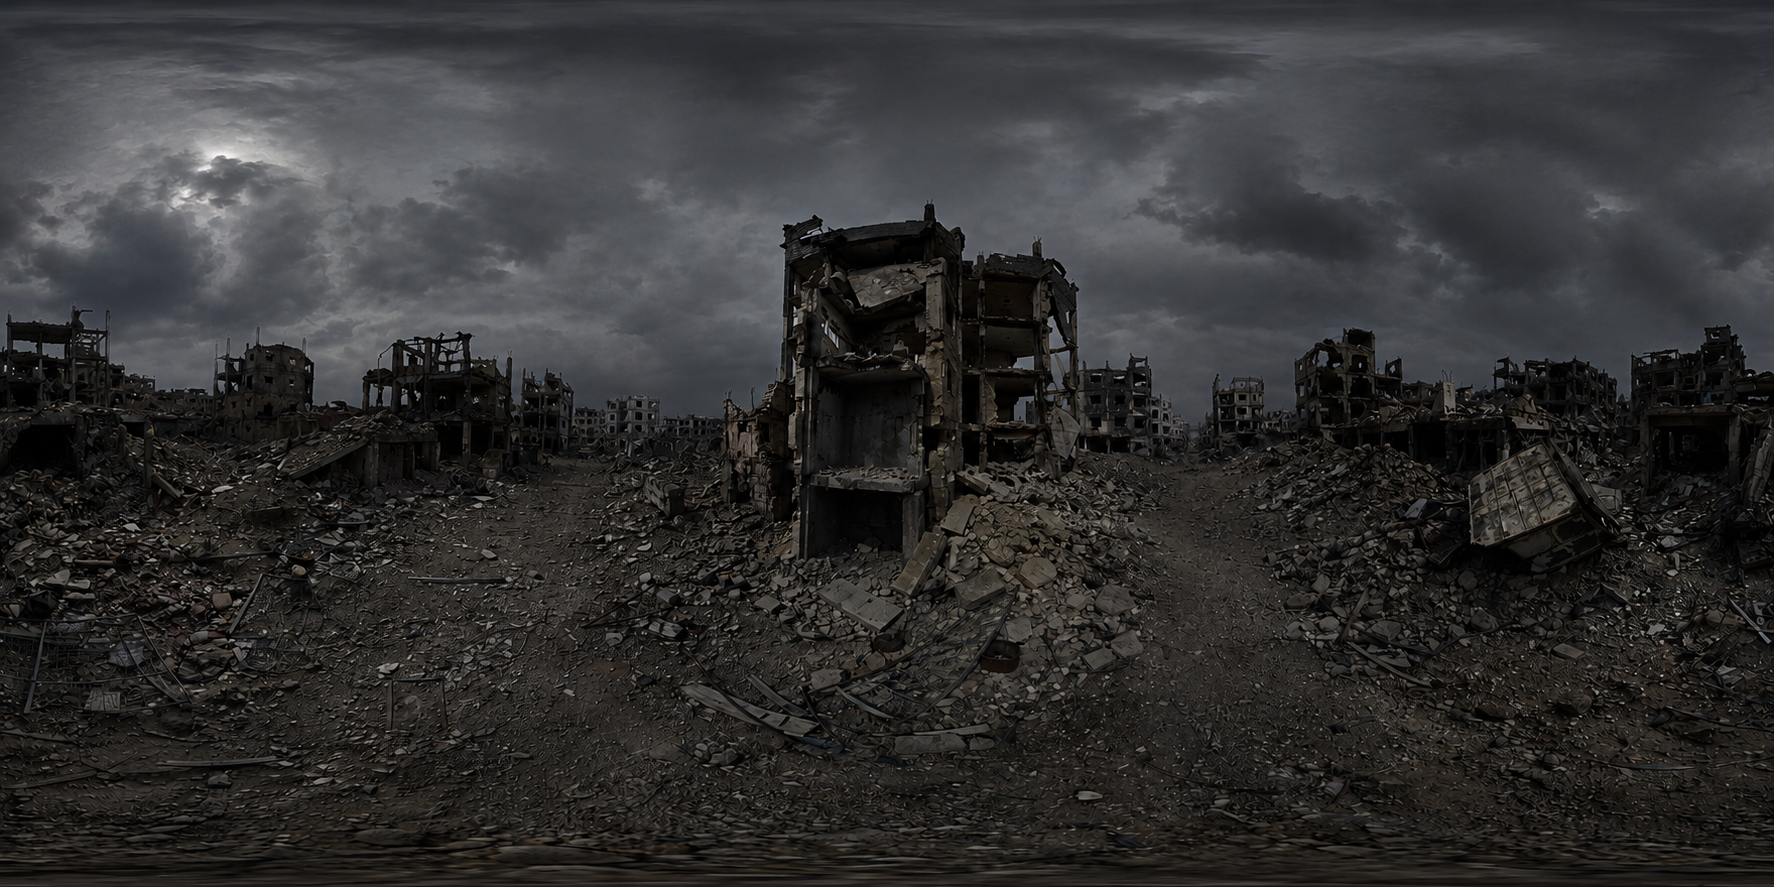
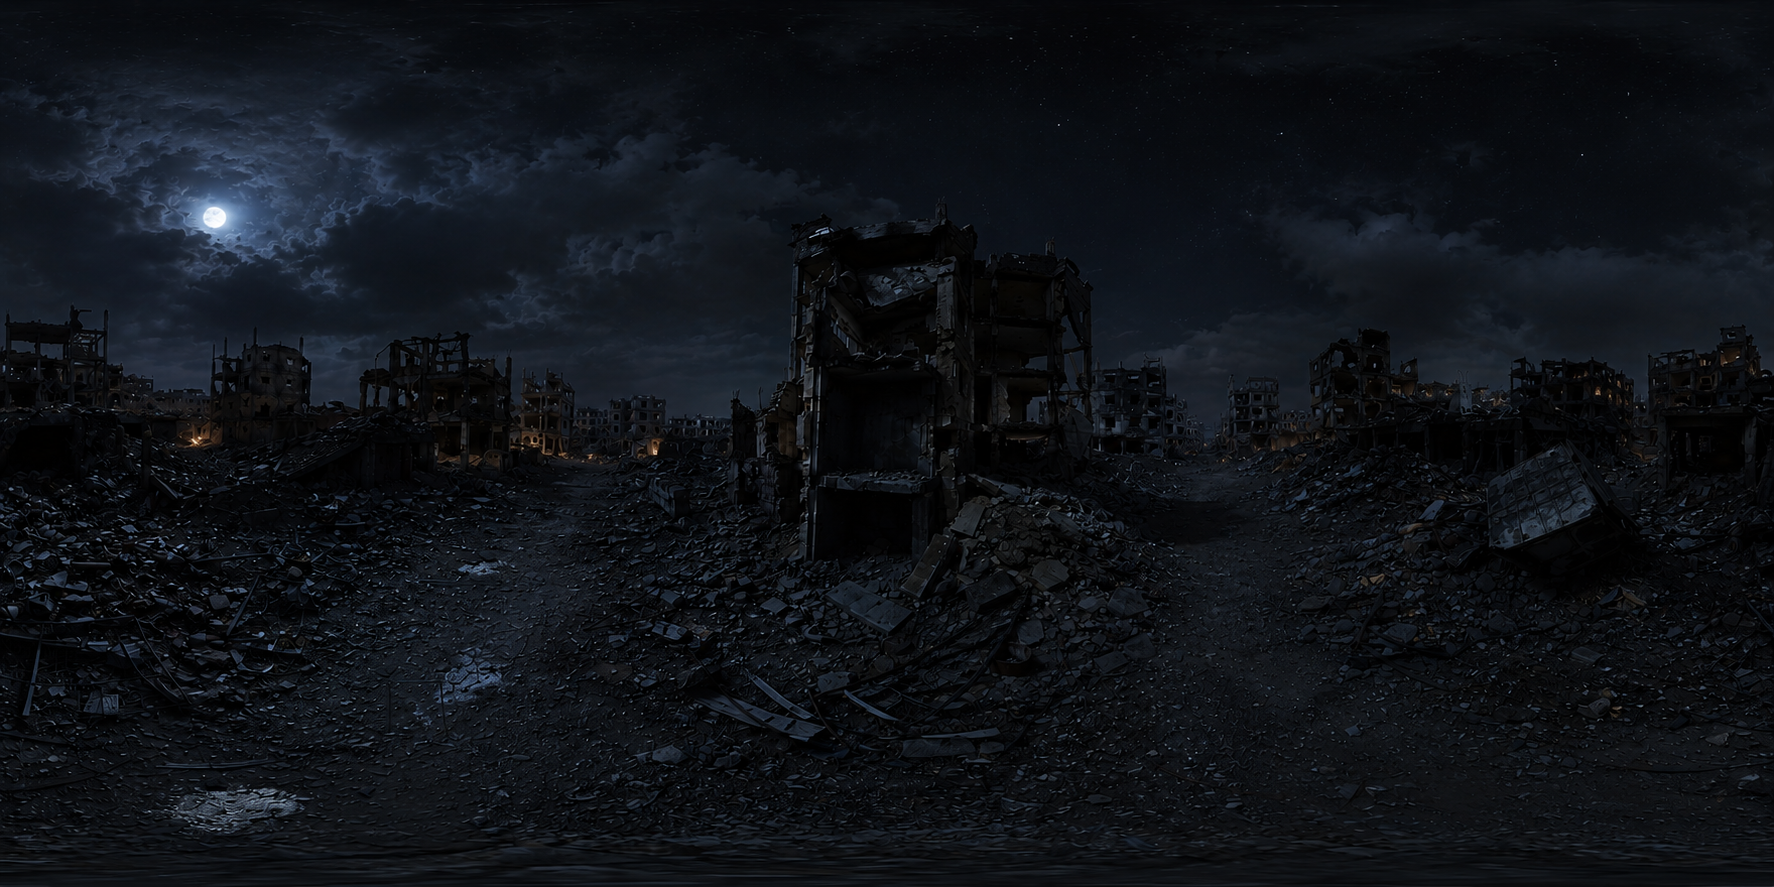
Add files via upload

diff --git a/index.html b/index.html
@@ -29,38 +29,42 @@
         }
         @keyframes grainShift { 0% { background-position: 0 0; } 100% { background-position: 10px 10px; } }
 
+        /* 修改：半透明毛玻璃效果，讓 360 環景圖一開始就透出來 */
         #init-screen {
-            position: fixed; inset: 0; z-index: 1000; background: #000;
+            position: fixed; inset: 0; z-index: 1000; 
+            background: rgba(0, 0, 0, 0.65); 
+            backdrop-filter: blur(6px); -webkit-backdrop-filter: blur(6px);
             display: flex; flex-direction: column; justify-content: center; align-items: center;
             transition: opacity 2s ease-in-out; cursor: pointer;
         }
         .init-text {
-            color: rgba(255, 255, 255, 0.7); font-size: clamp(1rem, 4vw, 1.2rem);
+            color: rgba(255, 255, 255, 0.9); font-size: clamp(1.2rem, 5vw, 1.5rem);
             letter-spacing: 0.5em; font-weight: 300; margin-left: 0.5em;
-            animation: pulse-slow 4s infinite; text-shadow: 0 0 10px rgba(255,255,255,0.2);
+            animation: pulse-slow 4s infinite; text-shadow: 0 0 15px rgba(255,255,255,0.4);
         }
         .init-subtext {
-            color: rgba(255, 255, 255, 0.3); font-size: 0.75rem; letter-spacing: 0.2em; margin-top: 4vh;
+            color: rgba(255, 255, 255, 0.5); font-size: 0.8rem; letter-spacing: 0.2em; margin-top: 4vh;
         }
 
         #webgl-container { position: absolute; inset: 0; z-index: 1; }
 
+        /* 修改：降低覆蓋的黑暗感，一開始就能看清廢墟 */
         #darkness-overlay {
             position: absolute; inset: 0; pointer-events: none; z-index: 2;
-            background: rgba(0, 0, 0, 0.6); /* 用於疊加在 360 圖上的絕望感 */
-            transition: background-color 3s ease-in-out, opacity 4s ease-in-out;
+            background: rgba(0, 0, 0, 0.3); 
+            transition: opacity 3s ease-in-out;
         }
 
         #ui-layer { position: absolute; inset: 0; z-index: 10; pointer-events: none; display: flex; flex-direction: column; justify-content: center; align-items: center; }
 
         .instruction {
-            position: absolute; bottom: 12%; color: rgba(255, 255, 255, 0.6);
+            position: absolute; bottom: 12%; color: rgba(255, 255, 255, 0.7);
             font-size: 0.95rem; letter-spacing: 0.5em;
             animation: pulse-slow 4s infinite; text-align: center;
             transition: opacity 2s ease; text-shadow: 0 0 10px rgba(0,0,0,0.8);
         }
         .hidden-hint { opacity: 0; pointer-events: none; }
-        @keyframes pulse-slow { 0%, 100% { opacity: 0.2; } 50% { opacity: 1; } }
+        @keyframes pulse-slow { 0%, 100% { opacity: 0.3; } 50% { opacity: 1; } }
 
         #story-overlay {
             position: fixed; inset: 0; z-index: 100;
@@ -148,8 +152,7 @@
 
     <script>
         // ==========================================
-        // 【替換圖片】請在這裡將路徑替換為你的 360 環景圖檔名
-        // 建議圖片比例為 2:1，例如 4096x2048 解析度的 jpg
+        // 360 環景圖檔名設定
         // ==========================================
         const PANORAMA_IMAGE_URL = 'ruin.jpg';
         
@@ -221,11 +224,12 @@
         // 1. 載入 360 環景圖
         const textureLoader = new THREE.TextureLoader();
         const panoramaGeo = new THREE.SphereGeometry(800, 60, 40);
-        panoramaGeo.scale(-1, 1, 1); // 翻轉球體，讓我們可以看到內部
+        panoramaGeo.scale(-1, 1, 1); 
         
+        // 修改：讓材質初始亮度提高，使其在一開始就能清晰看見廢墟 (0x777777)
         const panoramaMaterial = new THREE.MeshBasicMaterial({
             map: textureLoader.load(PANORAMA_IMAGE_URL),
-            color: 0x111111 // 初始非常昏暗，保留廢墟氛圍
+            color: 0x777777 
         });
         const panoramaMesh = new THREE.Mesh(panoramaGeo, panoramaMaterial);
         scene.add(panoramaMesh);
@@ -251,7 +255,6 @@
         }
 
         for (let i = 0; i < particleCount; i++) {
-            // 在 360 空間中散佈粒子
             positions[i * 3] = (Math.random() - 0.5) * 800;
             positions[i * 3 + 1] = (Math.random() - 0.5) * 800;
             positions[i * 3 + 2] = (Math.random() - 0.5) * 800; 
@@ -287,7 +290,7 @@
         let isDragging = false;
         let dragDistance = 0;
         let pointerDownX = 0, pointerDownY = 0;
-        let lon = 0, lat = 0; // 經緯度視角
+        let lon = 0, lat = 0; 
         let savedLon = 0, savedLat = 0;
 
         container3D.addEventListener('pointerdown', (e) => {
@@ -302,7 +305,6 @@
 
         container3D.addEventListener('pointermove', (e) => {
             if (isDragging) {
-                // 計算滑動距離更新視角
                 lon = savedLon - (e.clientX - pointerDownX) * 0.15;
                 lat = savedLat + (e.clientY - pointerDownY) * 0.15;
                 dragDistance += Math.abs(e.movementX) + Math.abs(e.movementY);
@@ -311,7 +313,6 @@
 
         container3D.addEventListener('pointerup', (e) => {
             isDragging = false;
-            // 如果拖拉距離很短，我們視為「點擊 (Tap)」來觸發螢火蟲
             if (dragDistance < 15 && !isStoryActive && !isEnding && document.getElementById('init-screen').style.display === 'none') {
                 handleTapInteraction(e.clientX, e.clientY);
             }
@@ -330,7 +331,7 @@
 
         // 點擊觸發邏輯
         const raycaster = new THREE.Raycaster();
-        raycaster.params.Points.threshold = 50; // 放大判定範圍，適應 360 空間
+        raycaster.params.Points.threshold = 50; 
         let typeWriterTimer;
 
         function handleTapInteraction(clientX, clientY) {
@@ -353,7 +354,6 @@
                 }
             } 
             
-            // 防呆：如果沒點中精準的粒子，就近隨機挑一顆未喚醒的點亮
             if (hitIndex === -1) {
                 let fallbackIdx = Math.floor(Math.random() * particleCount);
                 while(particleData[fallbackIdx].isAwake) { fallbackIdx = Math.floor(Math.random() * particleCount); }
@@ -378,7 +378,7 @@
             const p = particleData[idx];
             p.isAwake = true;
             p.targetColor.setHex(0xffa23a); 
-            sizes[idx] = p.baseSize * 8; // 螢火蟲放大
+            sizes[idx] = p.baseSize * 8; 
             
             p.velocity.set((Math.random()-0.5)*0.3, Math.random()*0.5 + 0.3, (Math.random()-0.5)*0.3);
             geometry.attributes.size.needsUpdate = true;
@@ -443,14 +443,14 @@
         function closeStory() {
             storyOverlay.classList.remove('active');
             
-            // 環境隱喻：360 環景圖逐漸變亮
             let progress = currentStoryIndex / warMessages.length;
             
-            // 讓疊加的黑暗濾鏡變淡
-            darknessOverlay.style.opacity = 1 - (progress * 0.8);
+            // 黑暗濾鏡變淡 (1 -> 0)
+            darknessOverlay.style.opacity = 1 - progress;
             
-            // 讓 360 背景圖本身的材質變亮 (從 0x111111 慢慢過渡到 0x888888 左右)
-            let colorIntensity = Math.floor(17 + (progress * 100));
+            // 讓 360 背景圖逐漸變亮 (從 0x777777 過渡到 0xffffff)
+            // 0x77 是十進位的 119。 255 - 119 = 136 的變化空間
+            let colorIntensity = Math.floor(119 + (progress * 136));
             let colorHex = (colorIntensity << 16) | (colorIntensity << 8) | colorIntensity;
             panoramaMaterial.color.setHex(colorHex);
 
@@ -483,9 +483,8 @@
             }
             geometry.attributes.size.needsUpdate = true;
             
-            // 背景全面照亮
             darknessOverlay.style.opacity = '0';
-            panoramaMaterial.color.setHex(0xffffff); // 恢復環景圖原本的明亮顏色
+            panoramaMaterial.color.setHex(0xffffff); 
 
             if(isAudioReady) {
                 droneSynth.volume.rampTo(-Infinity, 5); 
@@ -507,8 +506,12 @@
         function animate() {
             requestAnimationFrame(animate);
 
-            // 更新 360 攝影機視角 (滑動控制)
-            lat = Math.max(-85, Math.min(85, lat)); // 限制上下觀看角度，避免翻轉
+            // 修改：加入緩慢自動旋轉機制，展示 360 空間的深度
+            if (!isDragging && !isStoryActive) {
+                lon += 0.05; // 即使不碰螢幕，場景也會自己非常緩慢地旋轉
+            }
+
+            lat = Math.max(-85, Math.min(85, lat)); 
             const phi = THREE.MathUtils.degToRad(90 - lat);
             const theta = THREE.MathUtils.degToRad(lon);
             
@@ -529,7 +532,6 @@
                 positions[i * 3 + 1] += p.velocity.y;
                 positions[i * 3 + 2] += p.velocity.z;
 
-                // 360 空間的輪迴邊界
                 if (positions[i * 3 + 1] < -400 && !p.isAwake) {
                     positions[i * 3 + 1] = 400; 
                 } else if (positions[i * 3 + 1] > 400 && p.isAwake) {
@@ -544,7 +546,7 @@
                         
                         positions[i * 3] = Math.cos(newAngle) * radius;
                         positions[i * 3 + 2] = Math.sin(newAngle) * radius;
-                        positions[i * 3 + 1] += Math.random() * 0.8; // 加速飛昇
+                        positions[i * 3 + 1] += Math.random() * 0.8; 
                     } else {
                         positions[i * 3] += Math.sin(time * 1.5 + i) * 0.4; 
                     }
@@ -557,7 +559,6 @@
             posAttr.needsUpdate = true;
             colAttr.needsUpdate = true;
 
-            // 讓整個粒子系統緩慢自轉，增加生命感
             particles.rotation.y = time * 0.015;
 
             renderer.render(scene, camera);